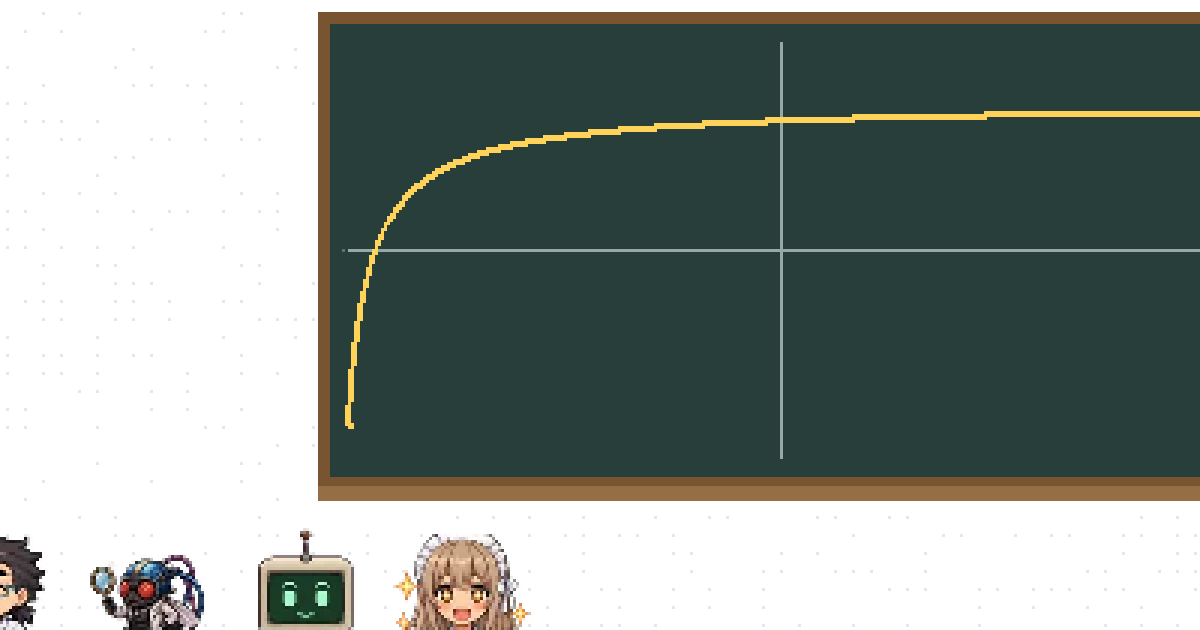
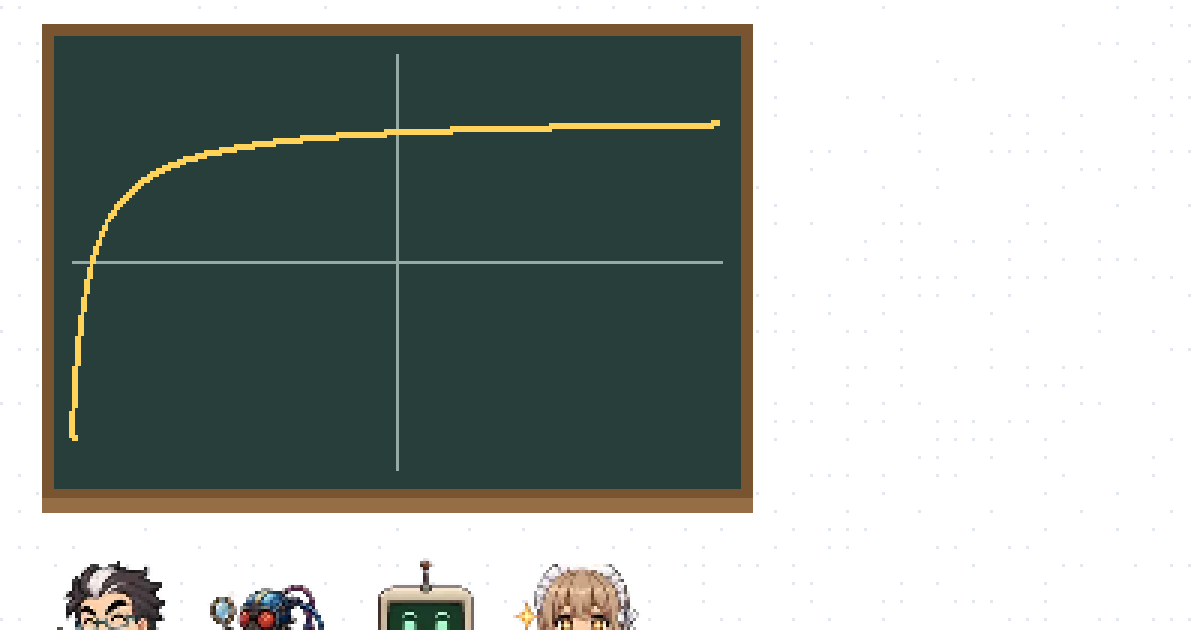
표지 제목 가독성 개선: 칠판을 왼쪽으로, 제목 뒤 흰 바탕 상자, 표지 캐릭터 중복 제거

diff --git a/assets/lab.css b/assets/lab.css
@@ -295,3 +295,9 @@ img.scene{display:block;width:100%;height:auto;border-radius:8px;border:1px soli
 .chat .cfoot .inp{flex:1;color:#9aa6b1;font-size:14px}.chat .cfoot .plus{font-size:18px;color:#5b6874}.chat .cfoot .send{background:#fee500;border-radius:8px;padding:4px 10px;font-size:13px}
 @media (prefers-reduced-motion:reduce){.chat .typing i{animation:none}}
 .rbox{background:#fff;border:2px solid var(--accent);border-radius:10px;padding:14px 18px;margin:12px 0}
+
+/* 표지 제목 가독성: 어떤 표지 그림 위에서도 읽히도록 흰 바탕 상자 */
+.cover.has-img .ctext{background:rgba(255,255,255,.92);border:1px solid var(--rule);border-radius:12px;padding:14px 18px;box-shadow:0 4px 14px rgba(22,33,43,.10)}
+.cover.has-img .ctext h1{color:var(--text)}
+.cover.has-img .ctext p{color:#33414d}
+@media (max-width:620px){.cover.has-img .ctext{background:none;border:0;box-shadow:none;border-radius:0}}

diff --git a/tools/make_covers.py b/tools/make_covers.py
@@ -1,6 +1,6 @@
 #!/usr/bin/env python3
 """픽셀아트 대체 표지 (16비트 RPG 느낌, 흰 배경).
-480×270 픽셀 격자에 그린 뒤 NEAREST 4배 → 1920×1080 무손실 WebP.
+480×270 픽셀 격자에 그린 뒤(칠판·캐릭터는 왼쪽, 오른쪽 46%는 제목 자리) NEAREST 4배 → 1920×1080 무손실 WebP.
 공유 미리보기: 400×210을 잘라 NEAREST 3배 → 1200×630. 그림 안에 글자는 넣지 않는다(제목은 HTML).
 사용: python3 tools/make_covers.py"""
 import os, re, io, sys, math, base64, random, importlib.util
@@ -96,9 +96,9 @@ MOTIF = {
 
 def make(SP, key, chars, motif, seed):
     im, d = bg(seed)
-    board(d, 150, 28, 300, 150, MOTIF[motif], seed)
-    # 칠판 아래 분필 받침과 강의실 바닥
-    d.rectangle([146, 182, 454, 186], fill=(150, 110, 70))
+    # 칠판은 왼쪽 절반에 두고, 오른쪽 46%는 제목 자리로 비워 둔다
+    board(d, 18, 22, 228, 150, MOTIF[motif], seed)
+    d.rectangle([14, 176, 250, 180], fill=(150, 110, 70))
     x = 14
     for i, (who, mood) in enumerate(chars):
         sp = sprite(SP, who, mood)
@@ -107,7 +107,7 @@ def make(SP, key, chars, motif, seed):
         x += 52 if i < 3 else 46
     big = im.resize((1920, 1080), Image.NEAREST)
     big.save(os.path.join(ROOT, 'img', 'cover', key + '.webp'), 'WEBP', lossless=True)
-    og = im.crop((40, 20, 440, 230)).resize((1200, 630), Image.NEAREST)
+    og = im.crop((0, 10, 400, 220)).resize((1200, 630), Image.NEAREST)
     return og
 
 
@@ -123,7 +123,10 @@ def main():
         m = importlib.util.module_from_spec(spec)
         spec.loader.exec_module(m)
         st = m.CH['star']
-        og = make(SP, 'cover_%02d' % n, [('doc', 'front'), ('fly', 'magnify'), ('robo', 'smile'), st], n, n)
+        base = [w for w in [('doc', 'front'), ('fly', 'magnify'), ('robo', 'smile')] if w[0] != st[0]]
+        if len(base) < 3:
+            base.append(('asst', 'spark'))
+        og = make(SP, 'cover_%02d' % n, base + [st], n, n)
         og.save(os.path.join(ROOT, 'img', 'og', 'og_%02d.webp' % n), 'WEBP', lossless=True)
     og = make(SP, 'cover_practice', [('doc', 'front'), ('asst', 'spark'), ('moa', 'cheer'), ('robo', 'calc')], 'practice', 99)
     og.save(os.path.join(ROOT, 'img', 'og', 'og_practice.webp'), 'WEBP', lossless=True)
